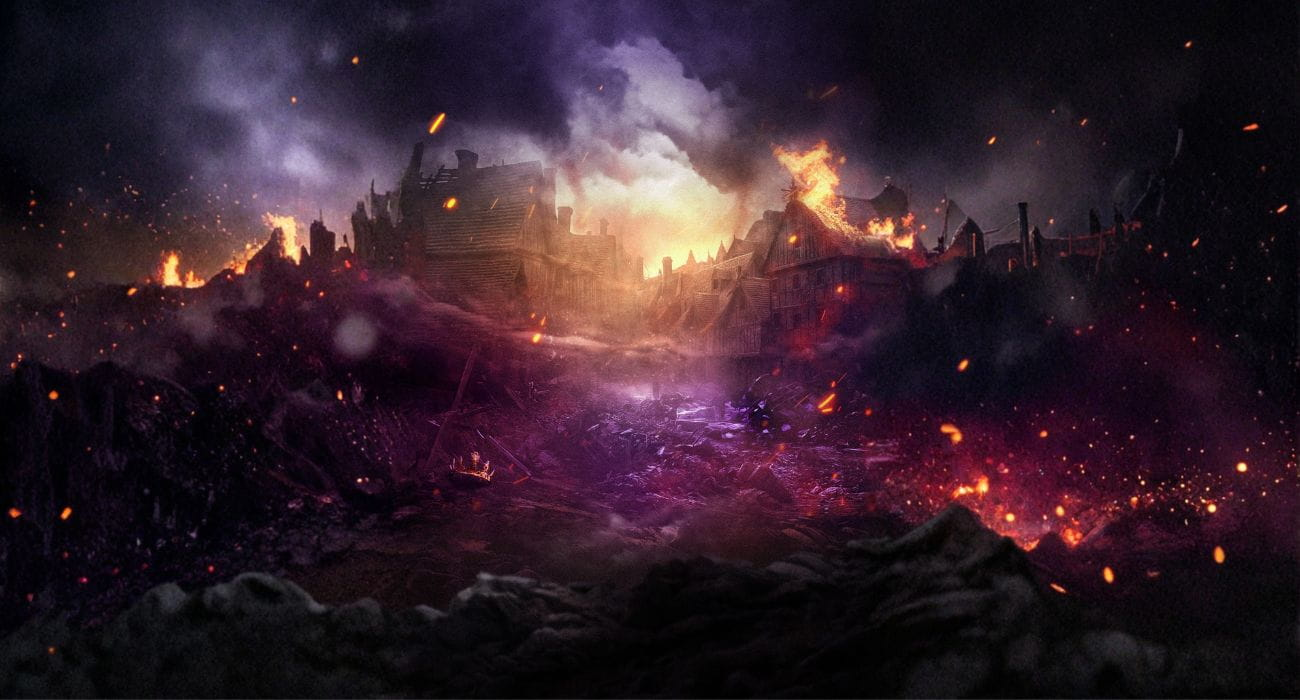
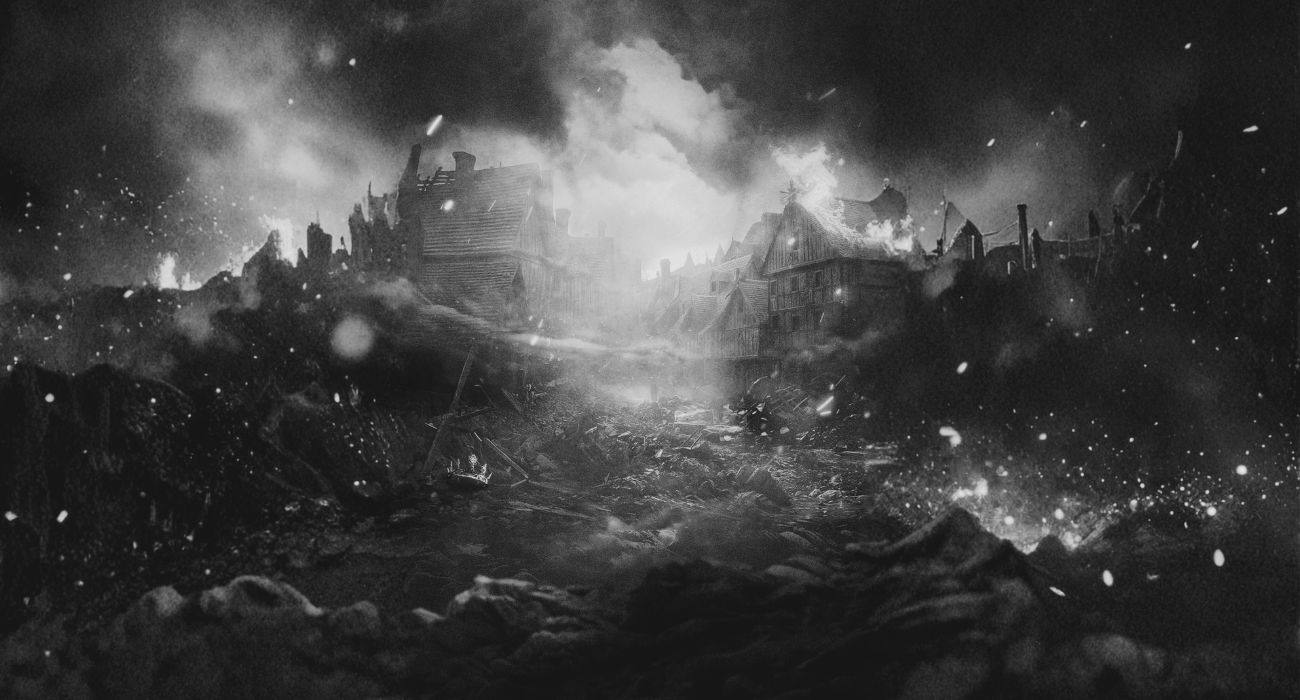
books34

diff --git a/src/components/home/heroData.js b/src/components/home/heroData.js
@@ -30,29 +30,29 @@ export const heroSlides = [
   },
     {
      id: 3,
-    title: "LEGACY OF GUARDIANS",
-    titleLines: ["LEGACY OF", "GUARDIANS"],
+    title: "GHARANTIA'S FATE",
+    titleLines: ["GHARANTIA'S", "FATE"],
     subtitle: "Chronicles of the Endless War - Book 3",
     description: "The final chapter approaches. Will the guardians prevail or will darkness consume the world forever?",
     ctaText: "Buy it now",
     ctaLink: "#",
     bgImage: "/images/book3-bg.jpg",
-    overlayColor: "rgba(21, 21, 21, 0.01)",
-    bookCover: "/images/book3-flat.jpg",
+    overlayColor: "rgba(21, 21, 21, 0.2)",
+    bookCover: "/images/book3-cover.png",
     textColor: "white",
     alignment: "left"
   },
   {
     id: 4,
-    title: "THE ENDLESS WAR",
+    title: "Davga",
     titleLines: ["THE ENDLESS", "WAR"],
-    subtitle: "Chronicles of the Endless War - Book 2",
+    subtitle: "An Endless War novella",
     description: "The battle continues in this thrilling sequel. \nNew alliances form as darkness spreads across the realm.",
     ctaText: "Buy it now",
     ctaLink: "#",
     bgImage: "/images/book4-bg.jpg",
-    overlayColor: "rgba(21, 21, 21, 0.01)",
-    bookCover: "/images/book4-flat.jpg",
+    overlayColor: "rgba(21, 21, 21, 0.2)",
+    bookCover: "/images/book4-cover.png",
     textColor: "white",
     alignment: "right"
   }]
@@ -62,7 +62,7 @@ export const chroniclesBooks = [
    {
     id: 1,
     title: "GHARANTIA'S SHADOW \n Novella 1",
-    flatCover: "/images/book3-cover.jpg",
+    flatCover: "/images/novella-Sh-cover.jpg",
     status: "get-it-free", 
     ctaText: "Get it free",
     ctaLink: "#newsletter"

diff --git a/src/components/home/ChroniclesSection.vue b/src/components/home/ChroniclesSection.vue
@@ -134,9 +134,9 @@ const handleCtaClick = (link, status) => {
 /* Books Grid */
 .books-grid {
   display: grid;
-  grid-template-columns: repeat(auto-fit, minmax(260px, 1fr));
-  gap: 2rem;
-  max-width: 1200px;
+  grid-template-columns: repeat(auto-fit, minmax(250px, 1fr));
+  gap: 3rem;
+  max-width: 1100px;
   margin: 0 auto;
 }
 

diff --git a/src/components/home/HeroSlide.vue b/src/components/home/HeroSlide.vue
@@ -110,7 +110,7 @@ const checkAllLoaded = () => {
 <style scoped>
 .hero-slide {
   position: relative;
-  height: 78vh;
+  height: calc(100vh - 30px);
   background-size: cover;
   background-position: center;
   background-repeat: no-repeat;